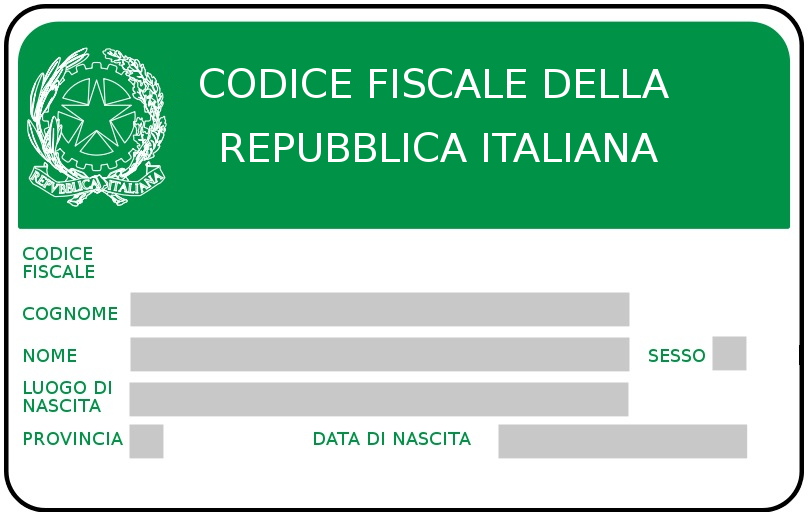
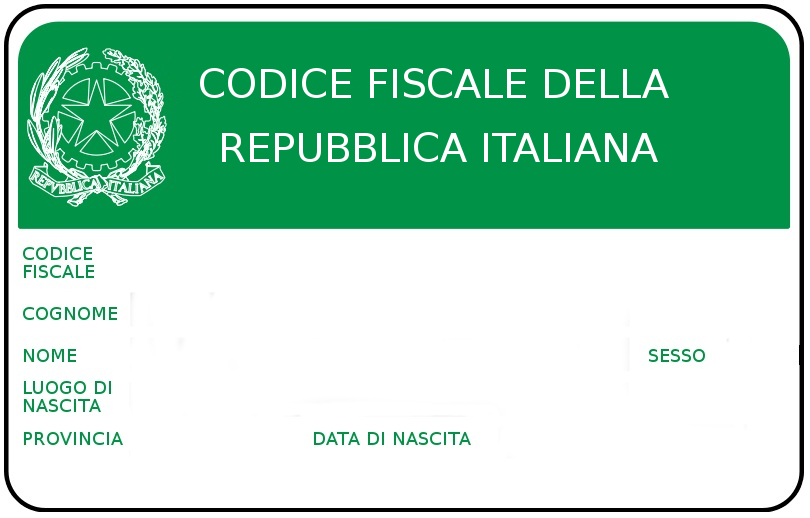
modificato positioning e adottato radio buttons per il sesso

Changed region(s): [[0.1543, 0.556, 0.9259, 0.8958], [0.8642, 0.6486, 0.9259, 0.7413]]

diff --git a/main.css b/main.css
@@ -2,88 +2,91 @@ body{
 	background-image: url('codice_fiscale.jpg');
 	background-attachment: fixed;
 	background-repeat: no-repeat;
+	background-size: contain;
+	width: 100%;
+	height: 100%;
 }
 input#_CFiscale{
 	background-color: lightgrey;
-	position: absolute;
-	top: 250px;
-	left: 130px;
-	font-size: 24px;
-	width:500px;
+	position: fixed;
+	margin-top: 30%;
+	margin-left: 15%;
+	font-size: 7vh, 7vv;
+	width:50%;
 }
 input#_cogn{
 	background-color: lightgreen;
-	position: absolute;
-	top: 295px;
-	left: 130px;
-	font-size: 24px;
-	width:500px;
+	position: fixed;
+	margin-top: 37%;
+	margin-left: 15%;
+	font-size: 7vh, 7vv;
+	width:50%;
 }
 input#_nome{
 	background-color: lightgreen;
-	position: absolute;
-	top: 340px;
-	left: 130px;
-	font-size: 24px;
-	width: 500px;
+	position: fixed;
+	margin-top: 42%;
+	margin-left: 15%;
+	font-size: 7vh, 7vv;
+	width: 50%;
 }
-input#_sess{
+#_sesso{
 	background-color: lightgreen;
-	position: absolute;
-	top: 340px;
-	left: 715px;
-	width: 30px;
-	font-size: 24px;
-	width: 30px;
+	position: fixed;
+	margin-top: 45%;
+	margin-left: 79%;
+	font-size: 7vh, 7vv;
+	width: 10%;
 }
+
 input#_luog{
 	background-color: lightgreen;
-	position: absolute;
-	top: 385px;
-	left: 130px;
-	font-size: 16px;
-	width: 500px;
+	position: fixed;
+	margin-top: 48%;
+	margin-left: 15%;
+	font-size: 7vh, 7vv;
+	width: 50%;
 }
 input#_prov{
 	background-color: lightgreen;
-	position: absolute;
-	top: 425px;
-	left: 130px;
-	width: 100px;
-	font-size: 24px;
+	position: fixed;
+	margin-top: 53%;
+	margin-left: 15%;
+	width: 5%;
+	font-size: 7vh, 7vv;
 }
 input#_gNas{
 	color: black;
 	background-color: lightgreen;
-	position: absolute;
-	top: 425px;
-	left: 500px;
-	width: 50px;
-	font-size: 24px;
+	position: fixed;
+	margin-top: 53%;
+	margin-left: 59%;
+	width: 5%;
+	font-size: 7vh, 7vv;
 }
 input#_mNas{
 	color: black;
 	background-color: lightgreen;
-	position: absolute;
-	top: 425px;
-	left: 550px;
-	width: 50px;
-	font-size: 24px;
+	position: fixed;
+	margin-top: 53%;
+	margin-left: 65%;
+	width: 5%;
+	font-size: 7vh, 7vv;
 }
 input#_aNas{
 	color: black;
 	background-color: lightgreen;
-	position: absolute;
-	top: 425px;
-	left: 600px;
-	width: 150px;
-	font-size: 24px;
+	position: fixed;
+	margin-top: 53%;
+	margin-left: 71%;
+	width: 15%;
+	font-size: 7vh, 7vv;
 }
 button#_check{
 	color: black;
 	background-color: lightgrey;
-	position: absolute;
-	top: 470px;
-	left: 30px;
-	font-size: 18px;
+	position: fixed;
+	margin-top: 57%;
+	margin-left: 15%;
+	font-size: 7vh, 7vv;
 }

diff --git a/index.html b/index.html
@@ -11,7 +11,10 @@
 		<input type = "text" id = "_CFiscale" readonly/>
 		<input type = "text" id = "_cogn" required placeholder = "solo car. alfabetici e spazi" pattern ="[a-zA-Z|\s]*"/>
 		<input type = "text" id = "_nome" required placeholder = "solo car. alfabetici e spazi" pattern ="[a-zA-Z|\s]*"/>
-		<input type = "text" id = "_sess" required placeholder = " -" pattern ="[mM|fF]{1}"/>
+		<div id = "_sesso">
+			<input type = "radio" id="_male" name = "sesso" value = "M" checked />M
+			<input type = "radio" id="_female" name = "sesso" value = "F" />F
+		</div>
 		<input list = "locations" id = "_luog"/>
 		<datalist id="locations"></datalist>
 		<input type = "text" id = "_prov" required placeholder = "--" pattern ="[a-zA-Z]{2}" readonly/>

diff --git a/main.js b/main.js
@@ -128,8 +128,8 @@ var codice08Mese_di_Nascita = function(){
 };
 var codice09_10Giorno_di_Nascita = function(){
 	gn = +(document.getElementById("_gNas").value);
-	sesso = document.getElementById("_sess").value;
-	if (sesso == 'F'){
+	checked = document.getElementById("_female").checked;
+	if (checked){
 		gn+=40;
 	};
 	// 2 cifre
